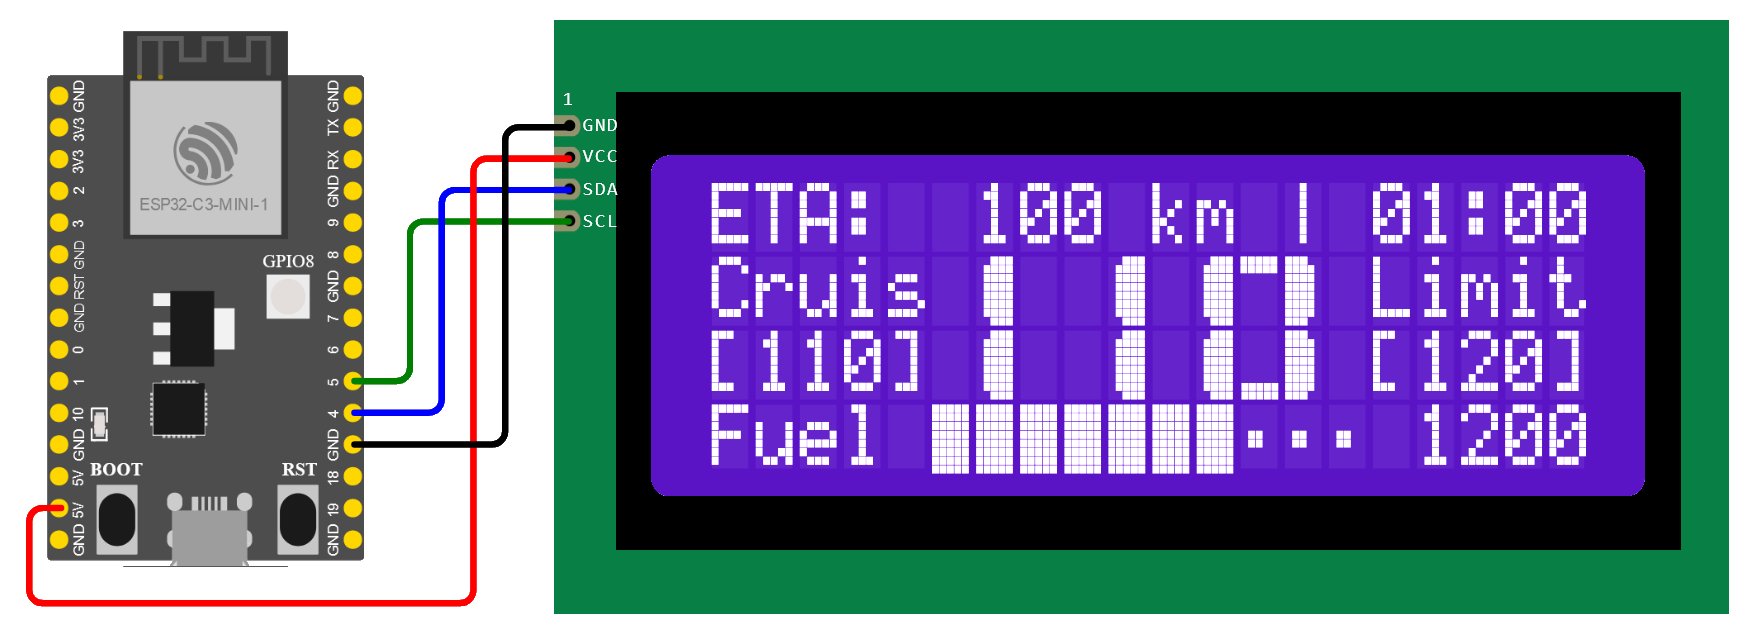
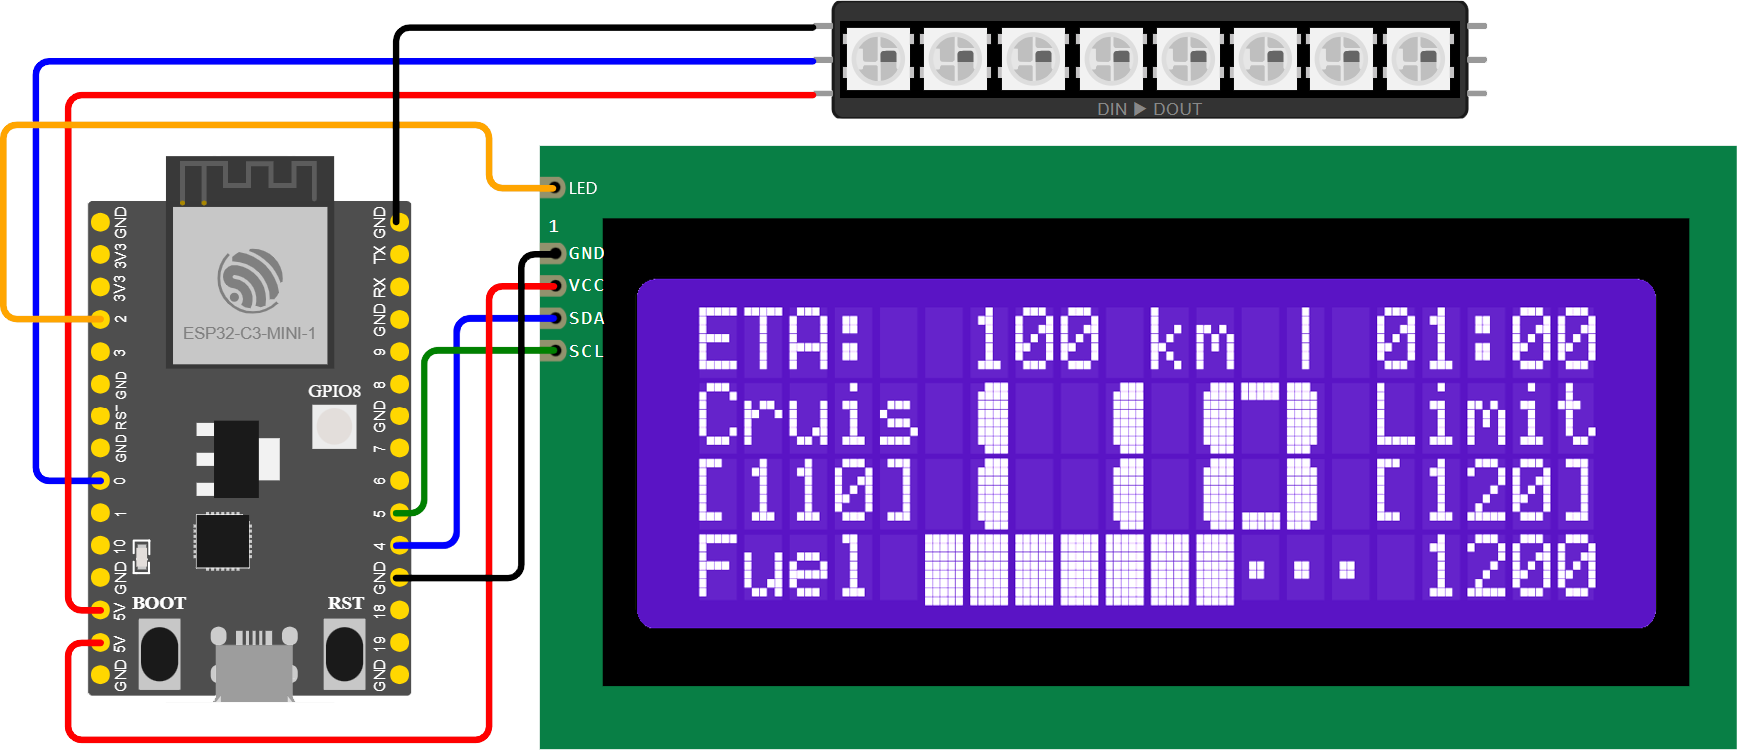
Update photos

diff --git a/README.md b/README.md
@@ -2,33 +2,33 @@
 
 [![Ask DeepWiki](https://deepwiki.com/badge.svg)](https://deepwiki.com/megatops/ets2_lcd_dashboard) ![GitHub License](https://img.shields.io/github/license/megatops/ets2_lcd_dashboard?logo=license) ![GitHub top language](https://img.shields.io/github/languages/top/megatops/ets2_lcd_dashboard) ![GitHub contributors](https://img.shields.io/github/contributors-anon/megatops/ets2_lcd_dashboard) ![GitHub forks](https://img.shields.io/github/forks/megatops/ets2_lcd_dashboard) ![GitHub Repo stars](https://img.shields.io/github/stars/megatops/ets2_lcd_dashboard)
 
-ETS2 / Forza LCD dashboard can be used with [ETS2 Telemetry Web Server](https://github.com/Funbit/ets2-telemetry-server) and Forza Motorsport / Horizon, made with ESP8266 / ESP32-C3. It can connect to the game via Wi-Fi, work as a wireless digital dashboard for your ETS2/ATS trucks and Forza racing cars. Theoretically, the code should be able to port to any MCU boards with integrated Wi-Fi support (such as Raspberry Pi Pico W, other ESP32 series boards).
+ETS2 / Forza LCD dashboard can be used with [ETS2 Telemetry Web Server](https://github.com/Funbit/ets2-telemetry-server) and Forza Motorsport / Horizon, made with ESP8266 / ESP32-C3. It can connect to the game via Wi-Fi, work as a wireless digital dashboard for your ETS2 / ATS trucks and Forza racing cars. Theoretically, the code should be able to port to any MCU boards with integrated Wi-Fi support (such as Raspberry Pi Pico W, other ESP32 series boards).
 
 ![photo](media/dashboard.jpg)
 
 The dashboard can display:
 
-- ETS2/ATS:
+- Euro Truck Simulator 2 / American Truck Simulator:
   - Estimated distance and time,
   - Current speed, cruise control speed and speed limit (kph/mph),
   - Fuel and estimated fuel distance,
   - Time and date (sync with NTP),
   - (Optional) LED indicators: left blinker, air pressure, brake, low beam, high beam, beacon, park brake, right blinker.
-- Forza:
+- Forza series:
   - RPM bar (linear and converging style),
   - Best lap time, last lap time, current lap time,
-  - Current speed, gear,
+  - Current speed (kph/mph), gear, fuel level,
   - Current lap number, race position.
   - Professional dashboard style for S+ class,
   - (Optional) LED shift indicators.
 
 Check the videos to see how it looks in action:
 
-- ETS2/ATS series:
+- ETS2 / ATS:
 
   [![video](https://img.youtube.com/vi/SX45oxnS2IU/0.jpg)](https://www.youtube.com/watch?v=SX45oxnS2IU)
 
-- Forza series:
+- Forza Horizon:
 
   [![video](https://img.youtube.com/vi/D59rC5C5DTI/0.jpg)](https://www.youtube.com/watch?v=D59rC5C5DTI)
 
@@ -42,7 +42,8 @@ The prices listed below are the retail prices I purchased in China in October 20
 | LCD 2004 (20x4) with I2C daughter board  | CNY 12.7 (with free shipping) |
 | 40pcs female to female jumper wires      | CNY 2 (with free shipping)    |
 | LCD 2004 acrylic display case (optional) | CNY 2.8 + CNY 2 shipping fee  |
-|                                          | Total: CNY 29.4 (USD 4.2)     |
+| 8x WS2812 LED stick (optional)           | CNY 2 (with free shipping)    |
+|                                          | Total: CNY 31.4 (USD 4.5)     |
 
 ![connections](media/ets2_lcd_dashboard.png)
 
@@ -176,7 +177,7 @@ Here are some tested open source UDP forwarders:
 
 ## Release History
 
-**2026-2-17**
+**2026-2-23**
 
 - Support ETS2/ATS LED indicators.
 
